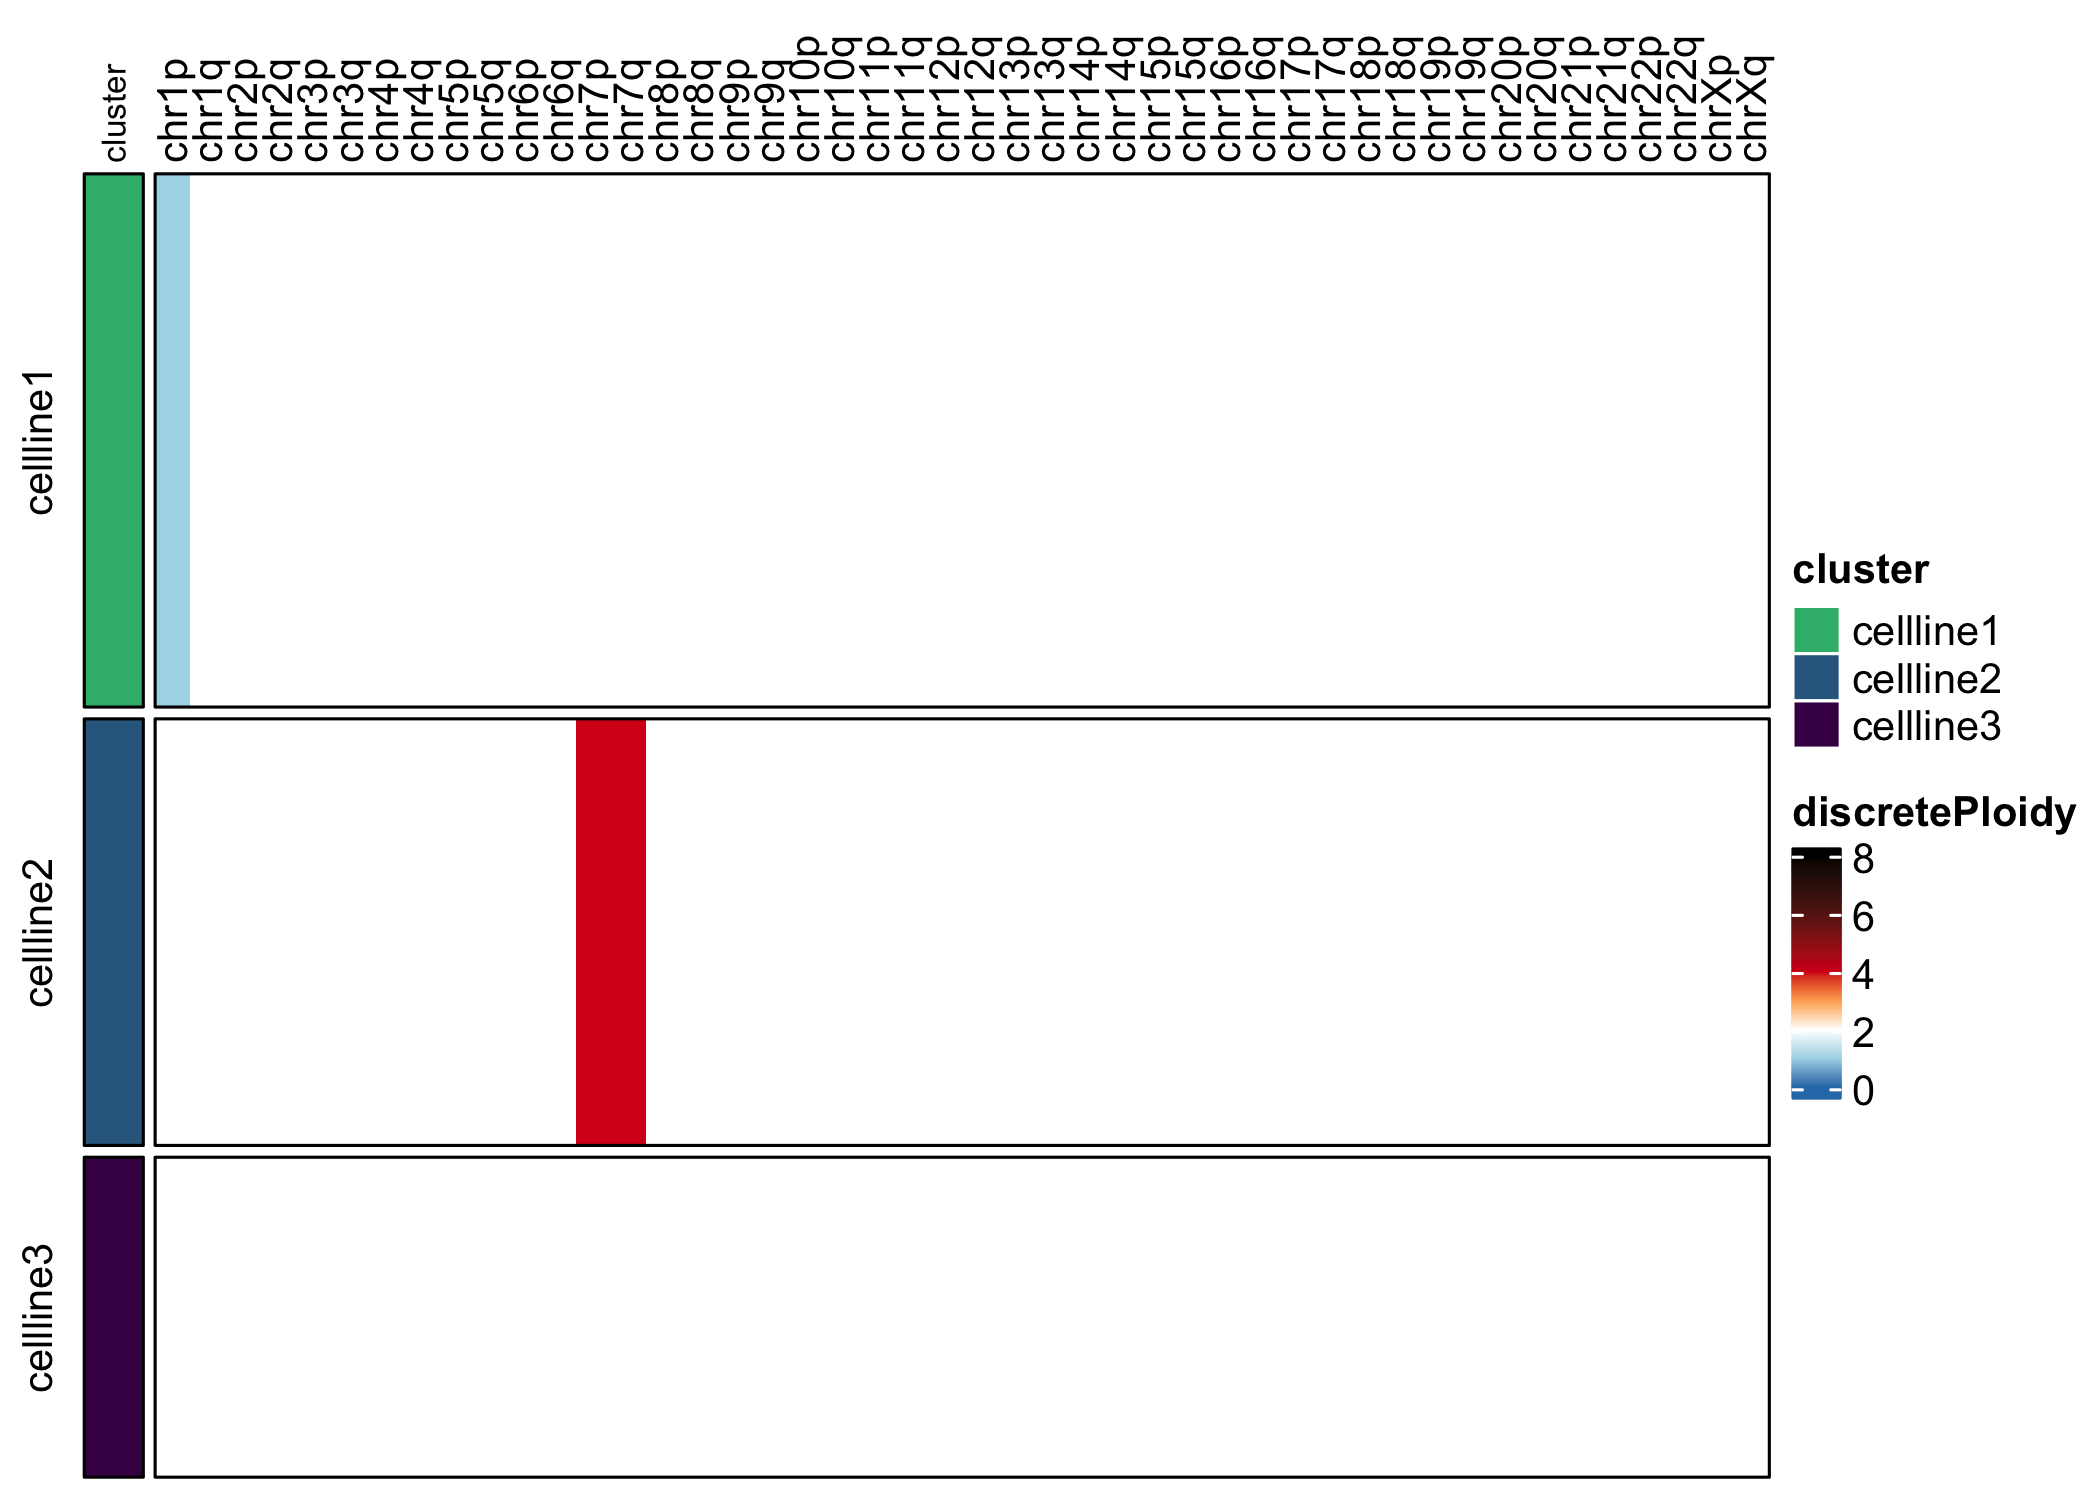
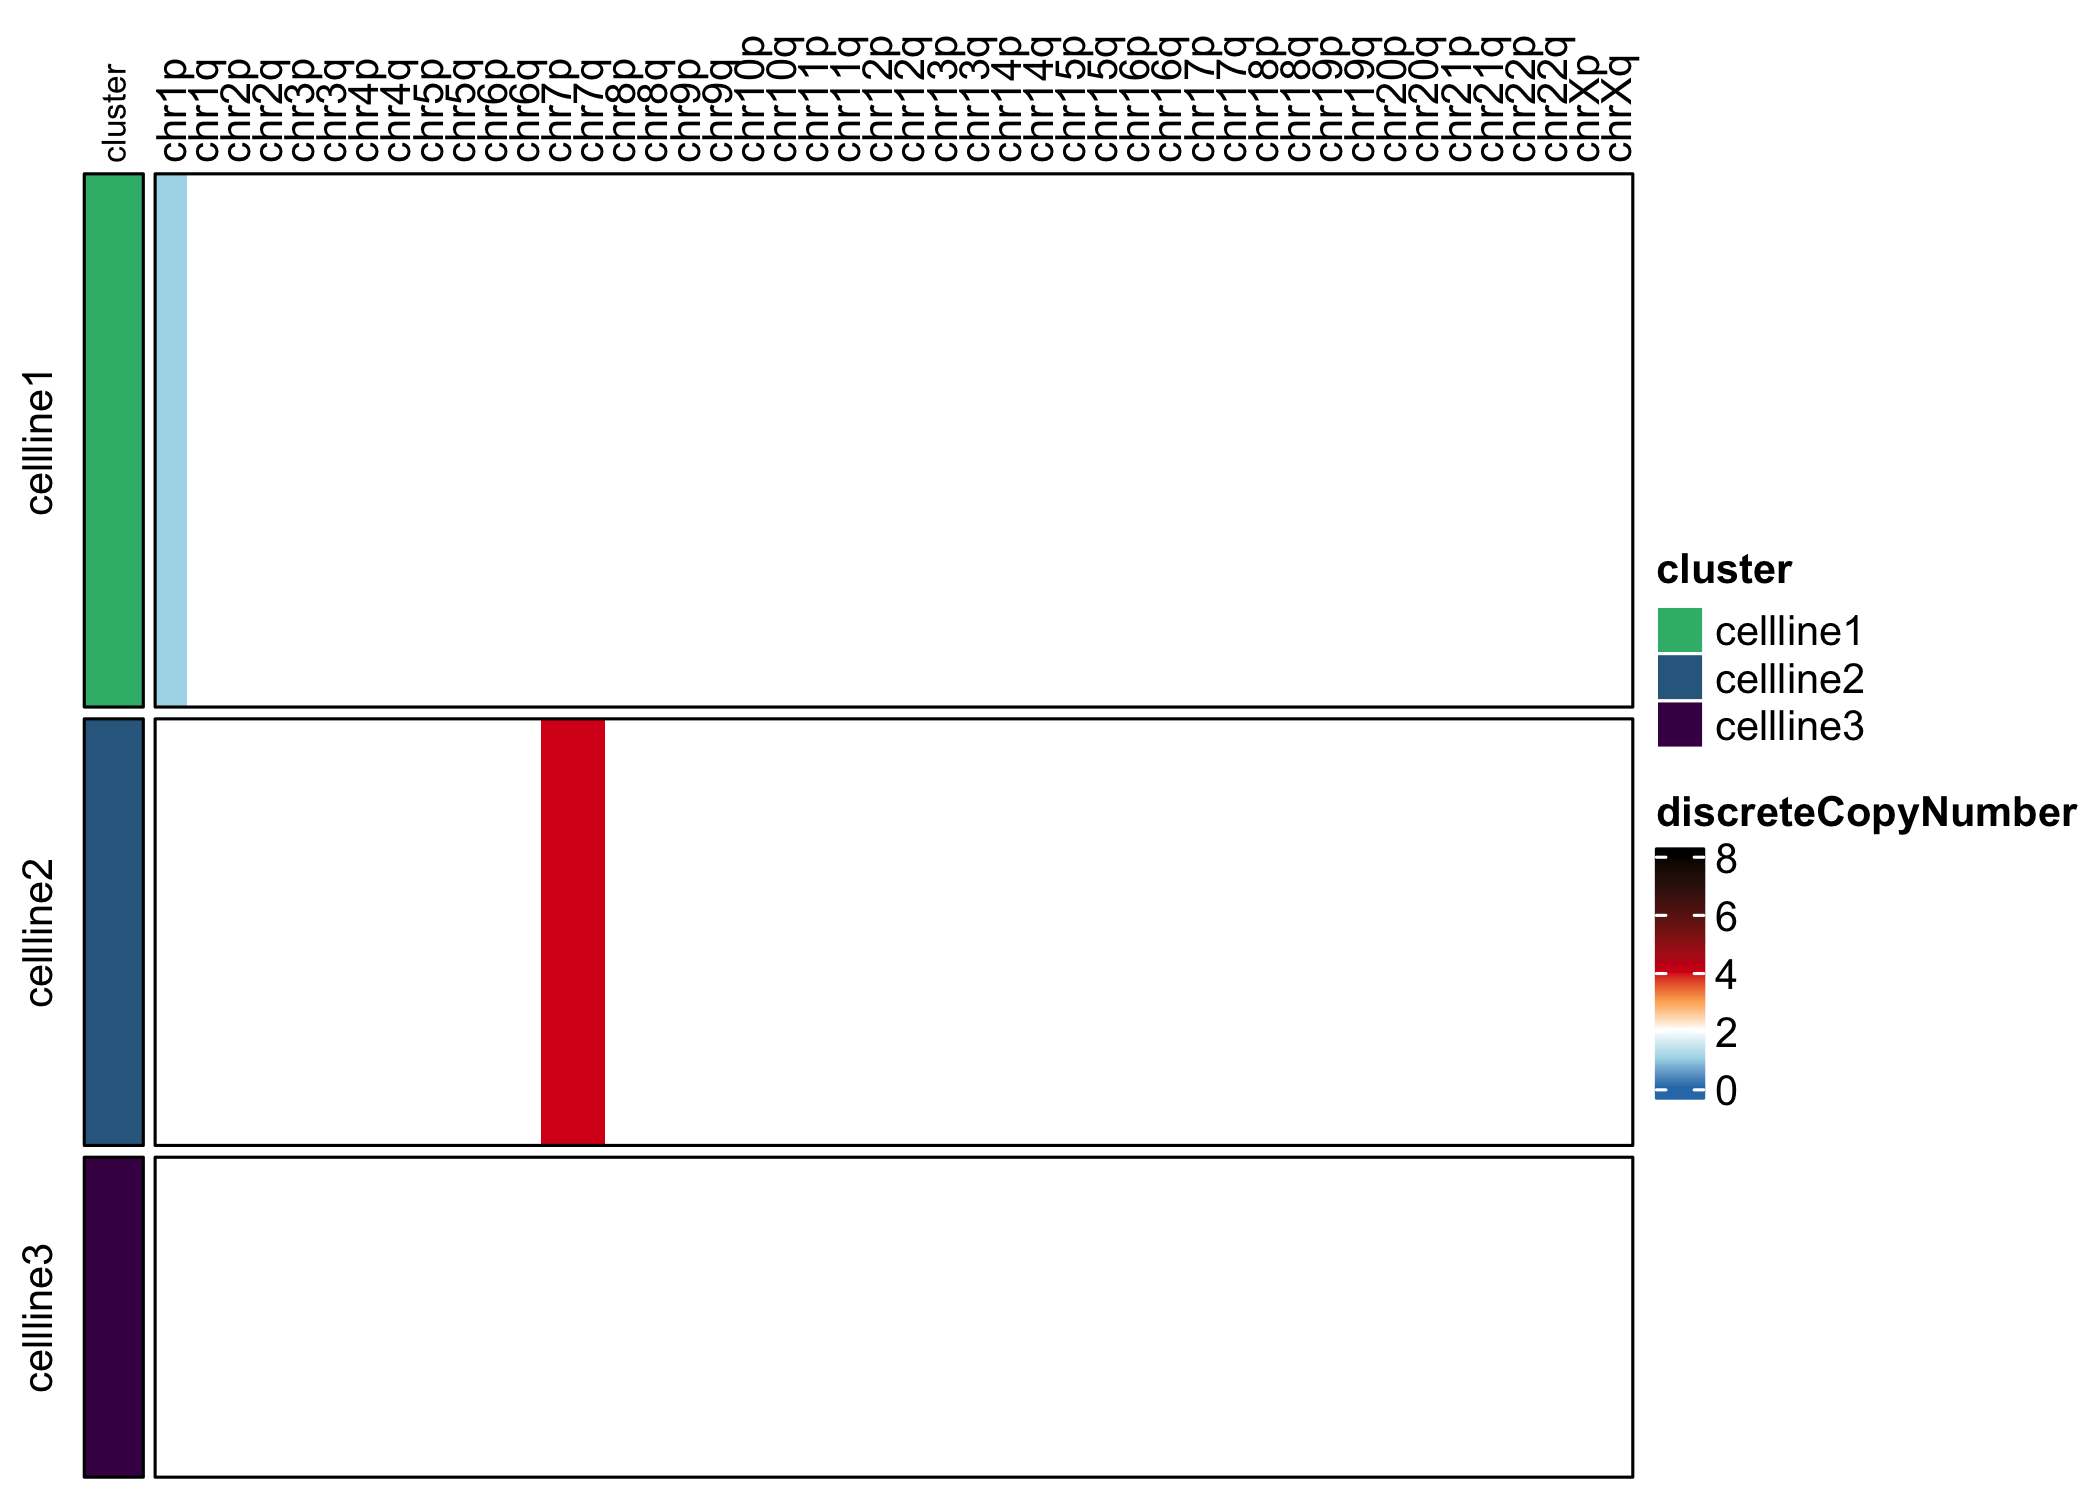
changed ploidy to copynumber for copy number calculation and smoothing functions

diff --git a/README.md b/README.md
@@ -97,27 +97,27 @@ colData(example.exp)$cluster <- forcats::fct_recode(colData(example.exp)$cluster
 ## Ploidy Calculation
 
 Normalize counts and calculate ploidy relative to cellline 3, which is
-diploid. `control.ploidy` gives the cluster label and ploidy value to
-normalize each chromosome arm to.
+diploid. `control.copy.number` gives the cluster label and ploidy value
+to normalize each chromosome arm to.
 
 ``` r
 example.exp <- calcNormCounts(example.exp)
-control.ploidy <- generateControlPloidyTemplate(example.exp, sample.label.all = "cellline3", ploidy.all = 2)
-example.exp <- getPloidy(example.exp, control.ploidy = control.ploidy, sample.category = "cluster")
-example.exp <- smoothPloidy(example.exp)
+control.copy.number <- generateControlCopyNumberTemplate(example.exp, sample.label.all = "cellline3", copy.number.all = 2)
+example.exp <- calcCopyNumber(example.exp, control.copy.number = control.copy.number, sample.category = "cluster")
+example.exp <- calcSmoothCopyNumber(example.exp)
 ```
 
 Visualize ploidy. Visualization reveals that cell line 1 has 1 copy of
 chromosome arm 1p, and cell line 2 has three copies of chromosome 7.
 
 ``` r
-assayHeatmap(example.exp, assay = "ploidy", split.col.by = "arm", split.row.by = "cluster", annotate.row.by = "cluster", color.preset = "ploidy")
+assayHeatmap(example.exp, assay = "copyNumber", split.col.by = "arm", split.row.by = "cluster", annotate.row.by = "cluster", color.preset = "ploidy")
 ```
 
 <img src="man/figures/README-heatmaps1-1.png" width="100%" />
 
 ``` r
-assayHeatmap(example.exp, alt.exp = "smoothedPloidyByArm", assay = "discretePloidy", split.row.by = "cluster", annotate.row.by = "cluster", color.preset = "ploidy")
+assayHeatmap(example.exp, alt.exp = "smoothedCopyNumberByArm", assay = "discreteCopyNumber", split.row.by = "cluster", annotate.row.by = "cluster", color.preset = "ploidy")
 ```
 
 <img src="man/figures/README-heatmaps1-2.png" width="100%" />
